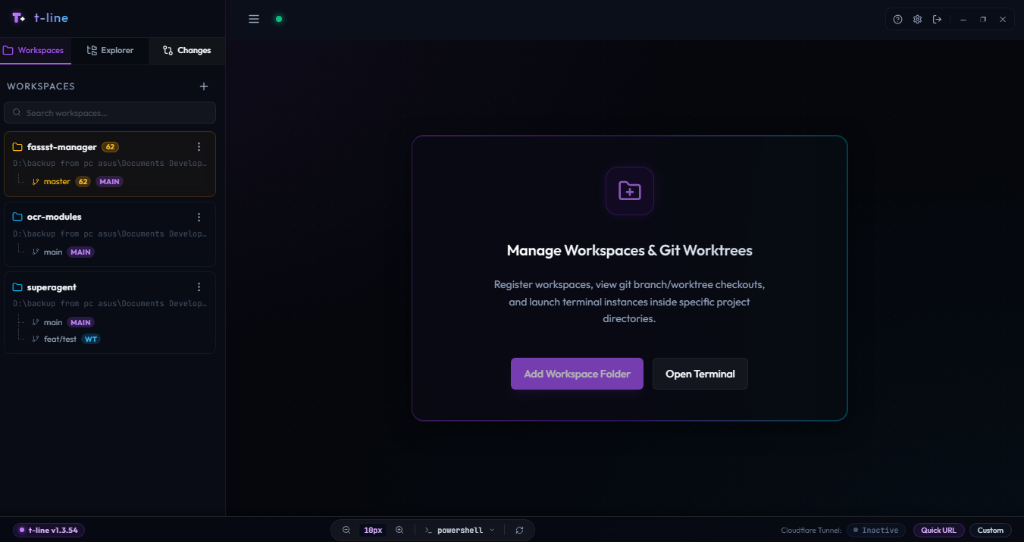
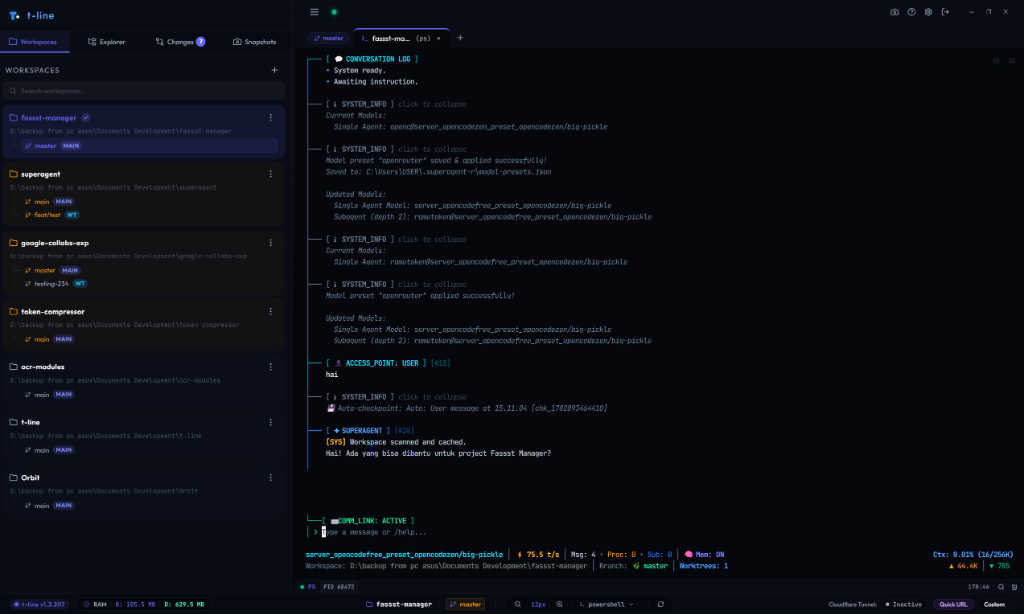
Update README preview image and bump version to 1.3.208

diff --git a/CHANGELOG.md b/CHANGELOG.md
@@ -2,6 +2,11 @@
 
 All notable changes to the **t-line** workspace manager project will be documented in this file.
 
+## [1.3.208] - 2026-07-01
+
+### Changed
+- **Documentation**: Updated README.md preview image (`preview.png`) to showcase the latest workspace manager interface.
+
 ## [1.3.207] - 2026-07-01
 
 ### Fixed